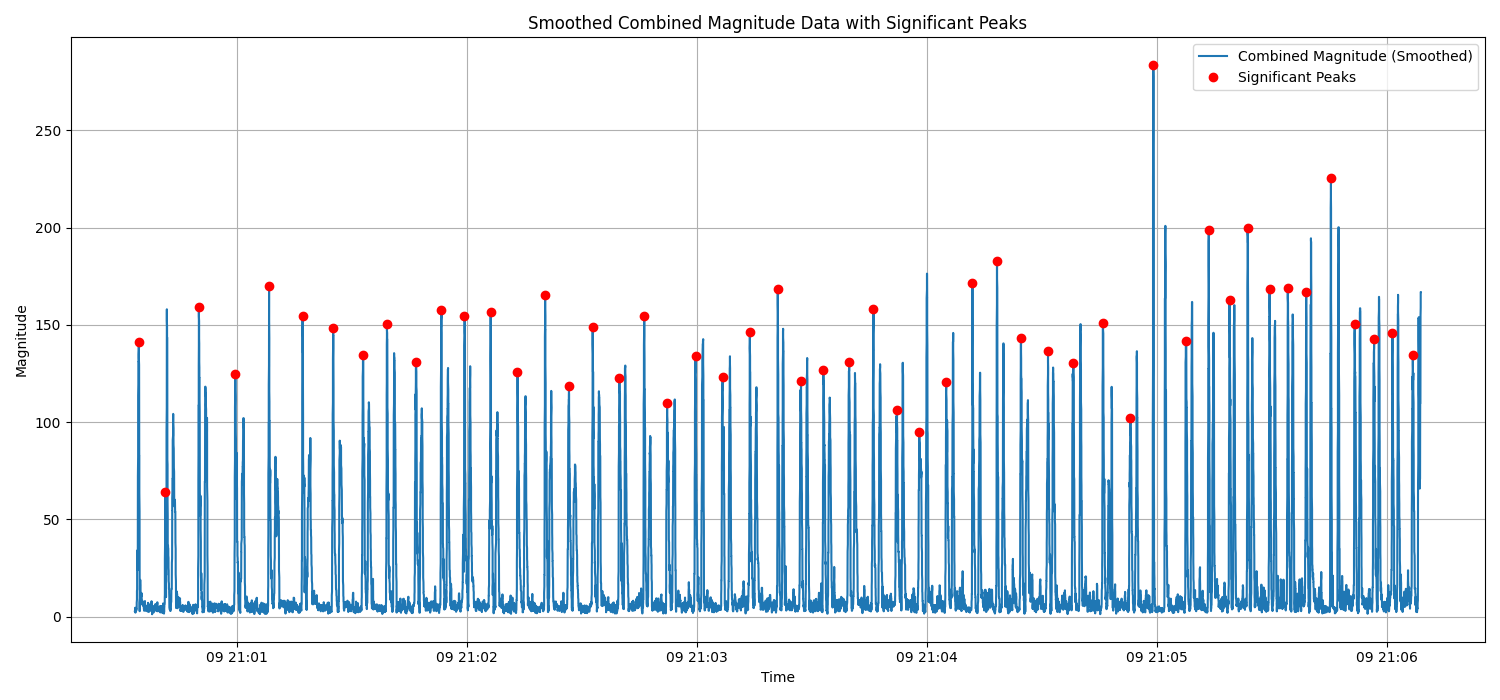
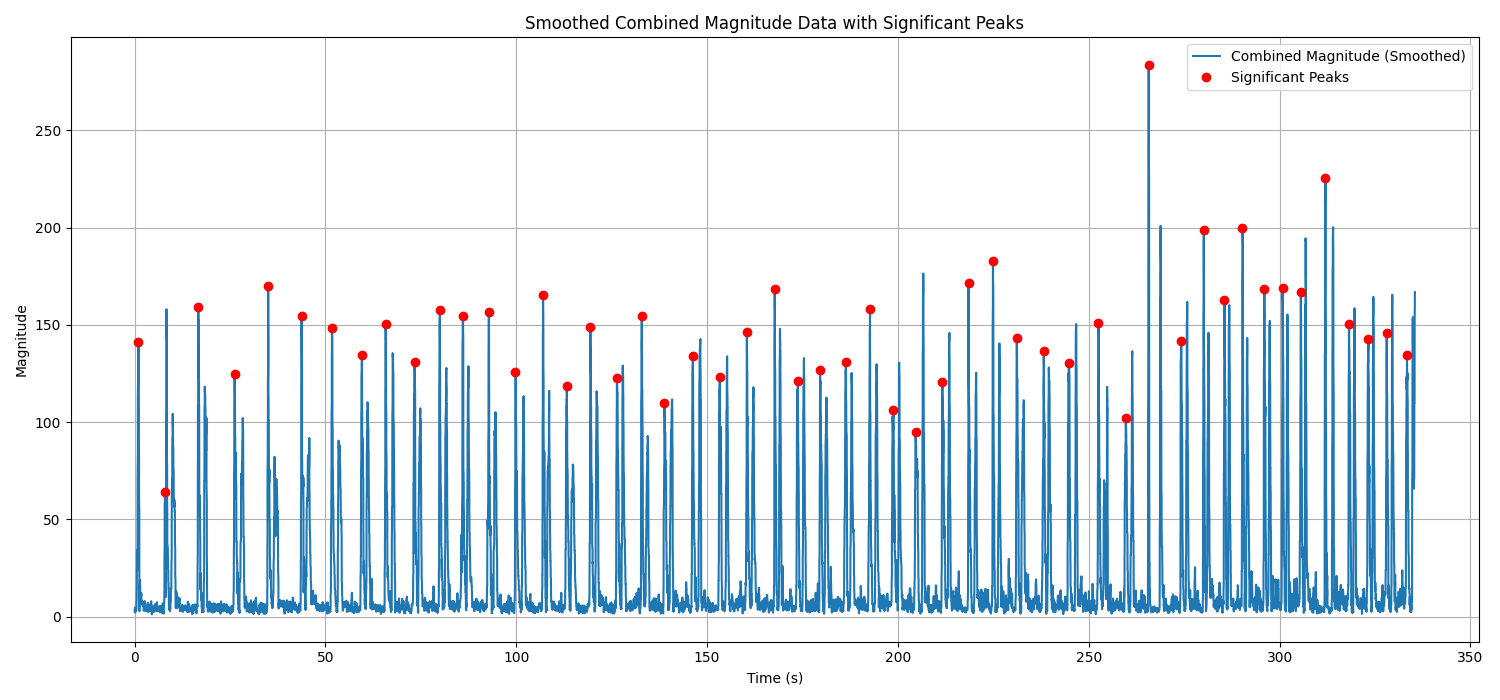
Add files via upload

diff --git a/pilates.py b/pilates.py
@@ -5,8 +5,10 @@ from scipy.signal import find_peaks
 
 # Function to detect peaks and return their properties
 def detect_significant_peaks(signal, height=None, distance=None, prominence=None, width=None):
+    # Drop NaNs
     signal = signal.dropna()
-    peaks, properties = find_peaks(signal, height=height, distance=distance, prominence=prominence, width=width)
+    peaks, properties = find_peaks(signal, height=height, distance=distance,
+                                   prominence=prominence, width=width)
     return peaks, properties
 
 # Function to perform validity checks
@@ -30,12 +32,15 @@ def perform_validity_checks(df, expected_columns):
     
     return df
 
+# ---- Main Script ---- #
+
 # Load the CSV file
 file_path = input("Enter the path to the CSV file: ")
 df = pd.read_csv(file_path, on_bad_lines='skip')
 
 # Expected columns
-expected_columns = ['TimeStamp', 'Accelerometer_X', 'Accelerometer_Y', 'Accelerometer_Z', 'Gyro_X', 'Gyro_Y', 'Gyro_Z']
+expected_columns = ['TimeStamp', 'Accelerometer_X', 'Accelerometer_Y', 'Accelerometer_Z',
+                    'Gyro_X', 'Gyro_Y', 'Gyro_Z']
 
 # Perform validity checks
 try:
@@ -45,16 +50,23 @@ except ValueError as e:
     exit(1)
 
 # Drop rows with NaNs in any of the relevant columns
-df_clean = df.dropna(subset=expected_columns)
+df_clean = df.dropna(subset=expected_columns).copy()
 
-# Extract cleaned data
-timestamps = df_clean['TimeStamp'].reset_index(drop=True)
+# Create a "Seconds" column, which goes from 0 s up to the end, with three decimals
+df_clean['Seconds'] = (df_clean['TimeStamp'] - df_clean['TimeStamp'].iloc[0]).dt.total_seconds()
+
+# Extract the signals we need
+timestamps = df_clean['Seconds'].reset_index(drop=True)  # Using floating sec for plots now
 acc_data = df_clean[['Accelerometer_X', 'Accelerometer_Y', 'Accelerometer_Z']].reset_index(drop=True)
 gyro_data = df_clean[['Gyro_X', 'Gyro_Y', 'Gyro_Z']].reset_index(drop=True)
 
 # Compute magnitude of accelerometer and gyroscope data
-acc_magnitude = np.sqrt(acc_data['Accelerometer_X']**2 + acc_data['Accelerometer_Y']**2 + acc_data['Accelerometer_Z']**2)
-gyro_magnitude = np.sqrt(gyro_data['Gyro_X']**2 + gyro_data['Gyro_Y']**2 + gyro_data['Gyro_Z']**2)
+acc_magnitude = np.sqrt(acc_data['Accelerometer_X']**2
+                        + acc_data['Accelerometer_Y']**2
+                        + acc_data['Accelerometer_Z']**2)
+gyro_magnitude = np.sqrt(gyro_data['Gyro_X']**2
+                         + gyro_data['Gyro_Y']**2
+                         + gyro_data['Gyro_Z']**2)
 
 # Combine accelerometer and gyroscope magnitude data
 combined_magnitude = acc_magnitude + gyro_magnitude
@@ -64,19 +76,19 @@ window_size = 5  # Adjust window size as needed
 combined_magnitude_smooth = combined_magnitude.rolling(window=window_size, center=True).mean()
 
 # Compute adaptive threshold based on mean and standard deviation
-mean = combined_magnitude_smooth.mean()
-std = combined_magnitude_smooth.std()
-threshold = mean + 1.0 * std  # Adjust multiplier as needed
+mean_val = combined_magnitude_smooth.mean()
+std_val = combined_magnitude_smooth.std()
+threshold = mean_val + 1.0 * std_val  # Adjust multiplier as needed
 
 # Detect peaks in the combined magnitude data
 peaks, properties = detect_significant_peaks(
     combined_magnitude_smooth,
     height=threshold,
-    prominence=std * 0.5  # Adjust multiplier as needed
+    prominence=std_val * 0.5  # Adjust multiplier as needed
 )
 
 # Now, filter out peaks that are too close together, keeping the first one
-min_interval = pd.Timedelta(seconds=4)  # Minimum interval between peaks
+min_interval = 4.0  # in seconds
 filtered_peaks = []
 last_peak_time = None
 
@@ -96,27 +108,31 @@ for idx in range(len(peaks)):
             last_peak_time = current_time
         else:
             # Peaks are too close; ignore this peak
-            continue  # Skip to the next peak
+            continue
 
 # Convert filtered_peaks to numpy array for indexing
 filtered_peaks = np.array(filtered_peaks)
 
-# Plotting raw accelerometer and gyroscope data with detected peaks
+# Plot raw accelerometer and gyroscope data with detected peaks
 plt.figure(figsize=(15, 7))
 
 # Plot raw accelerometer data
-for col in ['Accelerometer_X', 'Accelerometer_Y', 'Accelerometer_Z']:
-    plt.plot(timestamps, df_clean[col], label=col)
+plt.plot(timestamps, df_clean['Accelerometer_X'], label='Accelerometer_X')
+plt.plot(timestamps, df_clean['Accelerometer_Y'], label='Accelerometer_Y')
+plt.plot(timestamps, df_clean['Accelerometer_Z'], label='Accelerometer_Z')
 
 # Plot raw gyroscope data
-for col in ['Gyro_X', 'Gyro_Y', 'Gyro_Z']:
-    plt.plot(timestamps, df_clean[col], label=col)
+plt.plot(timestamps, df_clean['Gyro_X'], label='Gyro_X')
+plt.plot(timestamps, df_clean['Gyro_Y'], label='Gyro_Y')
+plt.plot(timestamps, df_clean['Gyro_Z'], label='Gyro_Z')
 
 # Mark filtered peaks on the raw data
-plt.plot(timestamps.iloc[filtered_peaks], combined_magnitude.iloc[filtered_peaks], 'ro', label='Significant Peaks')
+plt.plot(timestamps.iloc[filtered_peaks],
+         combined_magnitude.iloc[filtered_peaks],
+         'ro', label='Significant Peaks')
 
 plt.title("Raw Accelerometer and Gyroscope Data with Significant Peaks")
-plt.xlabel("Time")
+plt.xlabel("Time (s)")
 plt.ylabel("Signal Value")
 plt.legend()
 plt.grid(True)
@@ -126,20 +142,24 @@ plt.show()
 # Plot the smoothed magnitude data with detected significant peaks
 plt.figure(figsize=(15, 7))
 plt.plot(timestamps, combined_magnitude_smooth, label='Combined Magnitude (Smoothed)')
-plt.plot(timestamps.iloc[filtered_peaks], combined_magnitude_smooth.iloc[filtered_peaks], 'ro', label='Significant Peaks')
+plt.plot(timestamps.iloc[filtered_peaks],
+         combined_magnitude_smooth.iloc[filtered_peaks],
+         'ro', label='Significant Peaks')
 plt.title("Smoothed Combined Magnitude Data with Significant Peaks")
-plt.xlabel("Time")
+plt.xlabel("Time (s)")
 plt.ylabel("Magnitude")
 plt.legend()
 plt.grid(True)
 plt.tight_layout()
 plt.show()
 
-# Save the significant peak events in a text file (time only, no date)
-peak_times = [timestamps.iloc[peak].strftime("%H:%M:%S.%f")[:-3] for peak in filtered_peaks]  # Keep time, exclude date
+# Save the significant peak events in a text file
+# Now in seconds from the start, with three decimal places
+peak_times = [f"{timestamps.iloc[peak]:.3f}" for peak in filtered_peaks]
+
 output_txt_path = 'peak_times.txt'
 with open(output_txt_path, 'w') as f:
-    for time in peak_times:
-        f.write(time + '\n')
+    for time_str in peak_times:
+        f.write(time_str + '\n')
 
-print(f"Significant peak times (time only) have been saved to {output_txt_path}")
+print(f"Significant peak times (in seconds from start, 3 decimals) have been saved to {output_txt_path}")
